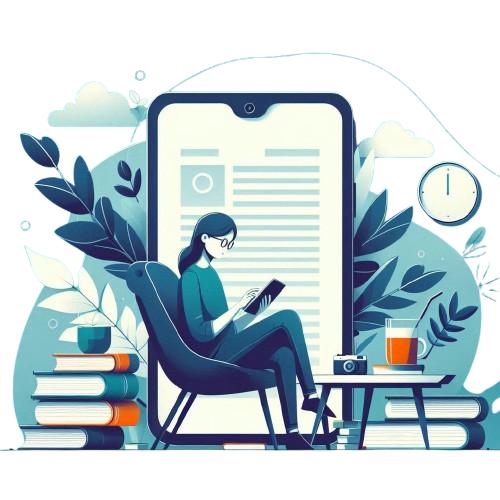
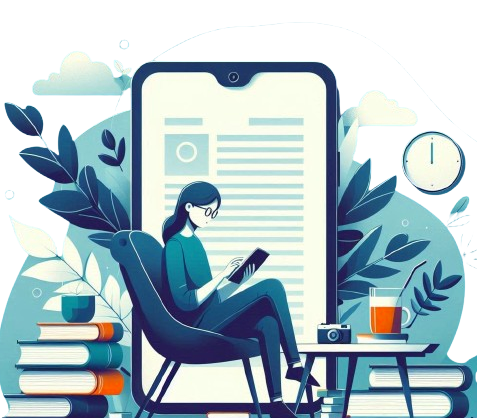
feat: Update styles for main layout and header; adjust background gradient and image dimensions

diff --git a/src/app/page.tsx b/src/app/page.tsx
@@ -20,7 +20,7 @@ export default function Home() {
         </Button>
         </div>
         <div className={styles.image}>
-        <img src="../ilustrationHome.png" className={styles.images} alt="Ilustração de uma mulher lendo um livro"/>
+        <img src="../ilustrationHome.png" className={styles.images} alt="Ilustração de uma mulher lendo um livro" width={590} height={590} />
       </div>
 
       </div>

diff --git a/src/components/header/header.module.css b/src/components/header/header.module.css
@@ -1,9 +1,7 @@
 /* header.module.css */
 .header {
-  background: linear-gradient(90deg, #001f3f, #0074D9); /* Gradiente de navy blue */
-  /* background: transparent; */
+  background: transparent; 
   width: 100%; /* Largura total */
-  box-shadow: 0 2px 4px rgba(0, 0, 0, 0.1); /* Sombra suave */
   top: 0;
   position: fixed;
   height: 85px;

diff --git a/src/app/page.module.css b/src/app/page.module.css
@@ -2,11 +2,14 @@
 .main {
   display: flex;
   flex-direction: column;
-  background: linear-gradient(90deg, #001f3f, #0074D9);
+  background: linear-gradient(150deg, #001f3f, #0074D9);
   height: 100vh;
 }
 .container{
   display: flex;
+  align-items: center;
+  padding-top: 5rem;
+  align-items: center;
 }
 .texts{
   align-self: center;
